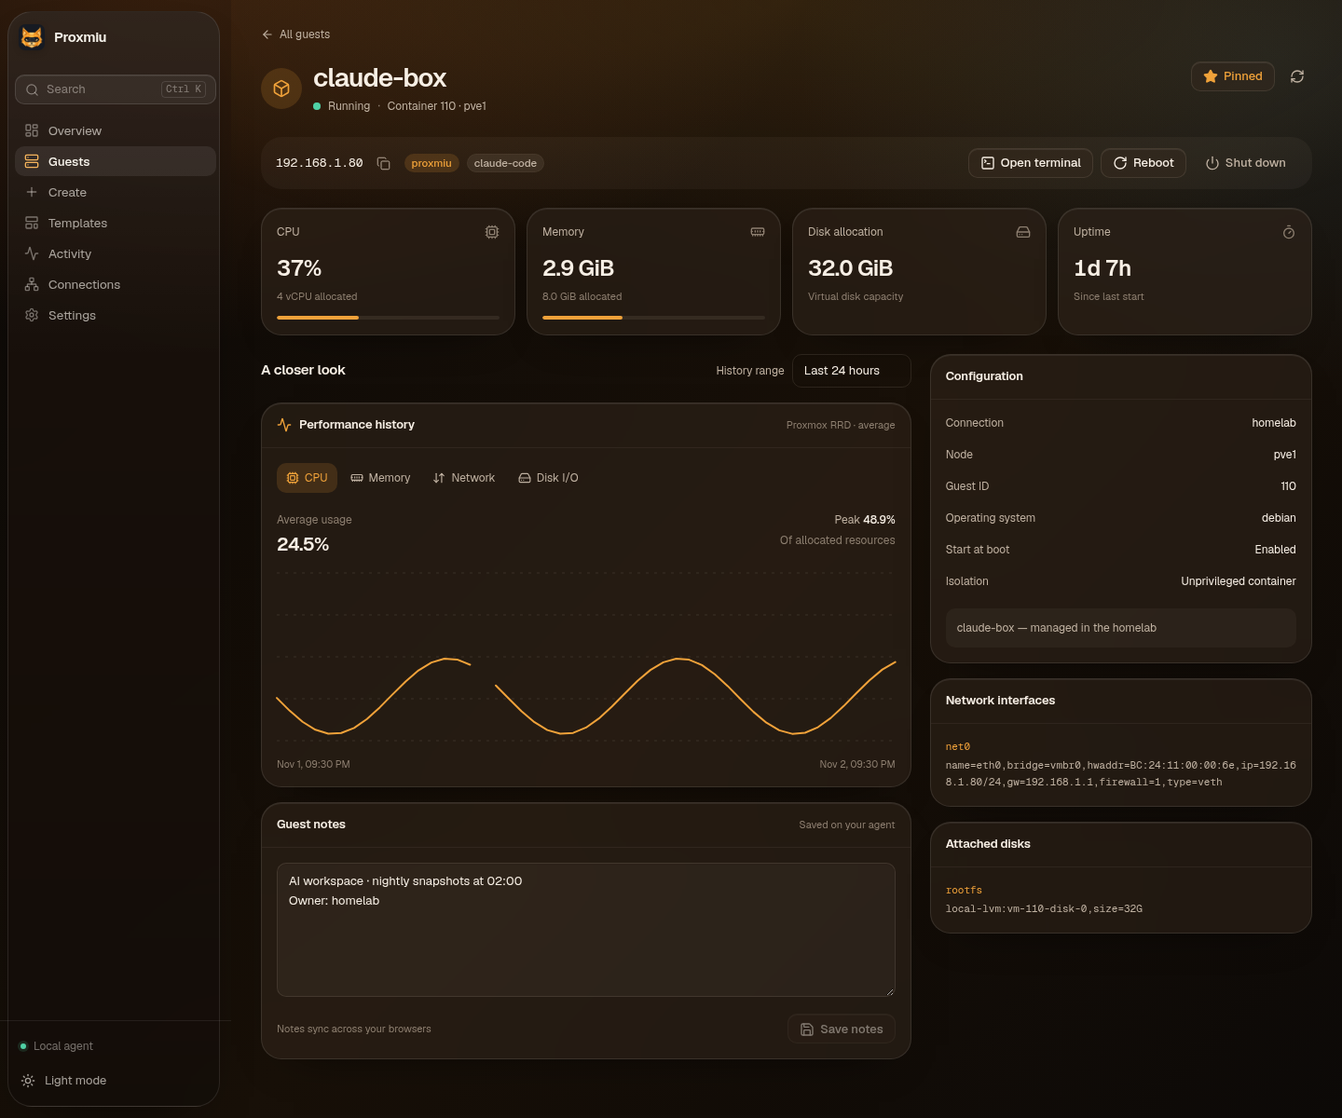
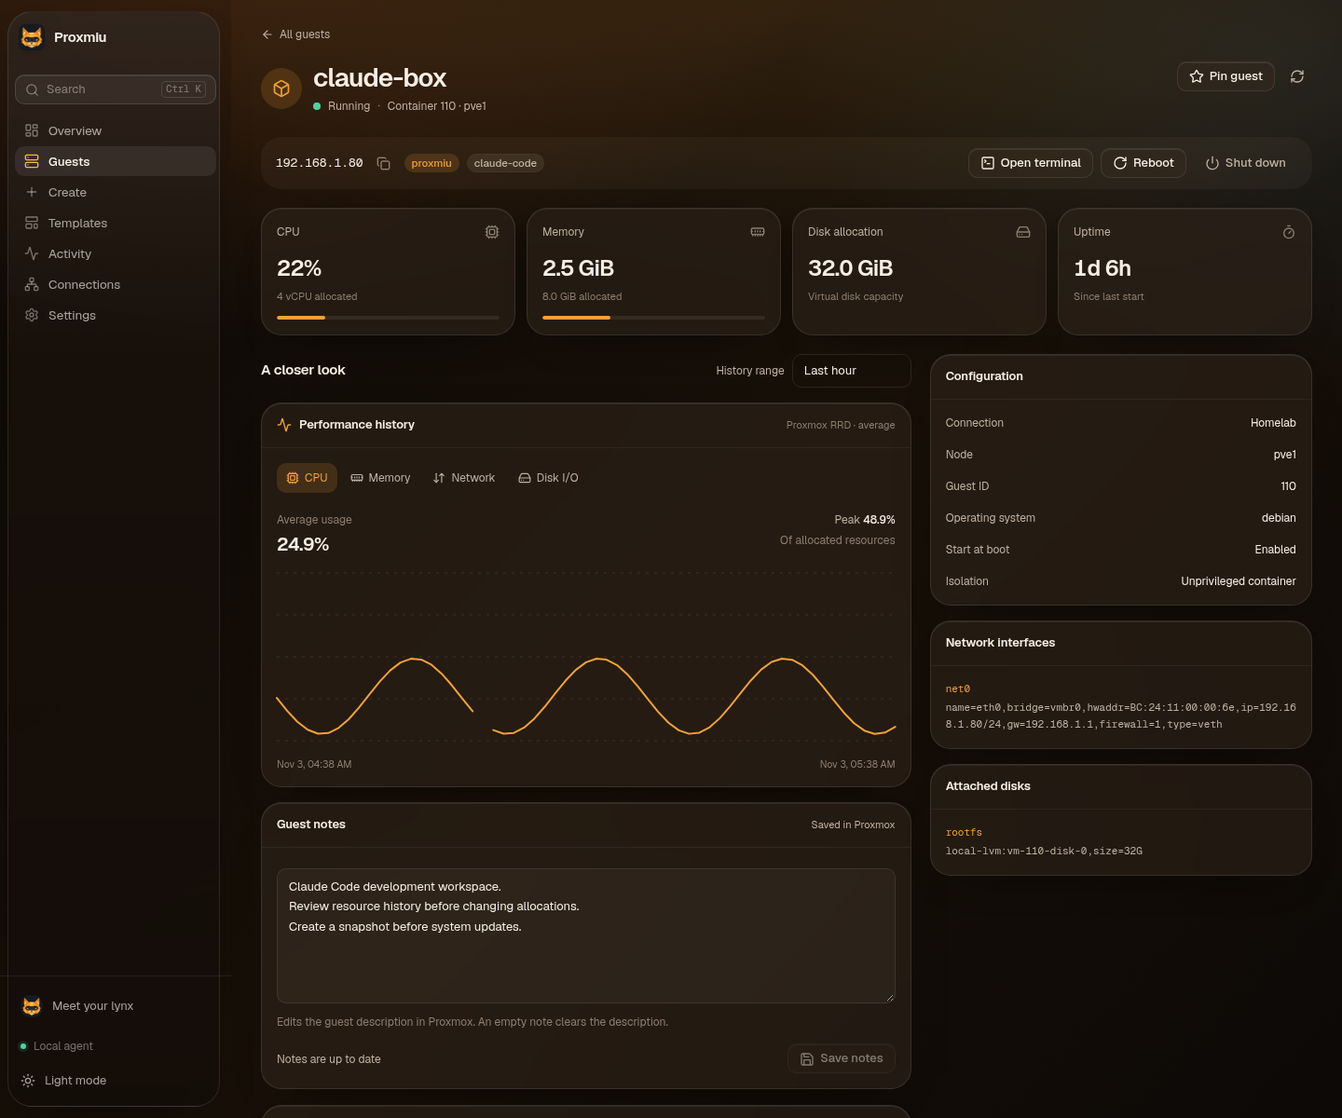
feat: showcase advanced workspaces and bring the lynx forward

diff --git a/index.html b/index.html
@@ -6,7 +6,7 @@
     <title>Proxmiu — manage Proxmox VE from the browser</title>
     <meta
       name="description"
-      content="A focused workspace for Proxmox VE: guest performance history, notes, pinned machines, saved views, safe bulk actions, browser SSH and one-click dev servers."
+      content="A friendlier Proxmox workspace: snapshots, backups, migration, shared notes, browser SSH and optional AI optimization advice you review and send."
     />
     <meta name="theme-color" content="#f6f0e7" />
     <link rel="canonical" href="https://proxmiu.com/" />
@@ -16,7 +16,7 @@
     <meta property="og:title" content="Proxmiu — manage Proxmox VE from the browser" />
     <meta
       property="og:description"
-      content="Guest history, notes, pins, saved views and safe bulk actions. Browser SSH and ready-to-use AI dev boxes, self-hosted on your LAN."
+      content="Snapshots, backups, migration and shared Proxmox notes. Browser SSH and optional optimization advice, with you in control."
     />
     <meta property="og:image" content="https://proxmiu.com/screenshots/overview.png?v=10" />
     <meta name="twitter:card" content="summary_large_image" />
@@ -48,11 +48,11 @@
 
     <main class="page">
       <section class="hero">
-        <div class="eyebrow"><span class="dot"></span> Proxmox VE, without the tab hunt</div>
-        <h1>Your homelab,<br /><span class="gradient">one click away.</span></h1>
+        <div class="hero-copy">
+        <h1>Your homelab,<br /><span>one click away.</span></h1>
         <p class="lede">
           A focused workspace for Proxmox VE. Understand every guest, keep your important machines close, and handle
-          everyday work in fewer steps. Browser SSH and ready-to-use Claude Code, Codex and OpenCode boxes included.
+          everyday work in fewer steps. Snapshots, backups, migration, browser SSH and ready-to-use dev boxes, together.
         </p>
         <div class="cta">
           <a class="button primary" href="#install">Install on Proxmox</a>
@@ -65,7 +65,14 @@
           <span>Docker</span>
           <span>Community Scripts</span>
         </div>
-        <p class="hero-note">Self-hosted · runs on your LAN · no cloud dependency</p>
+        <p class="hero-note">Self-hosted on your LAN. Optional AI advice when you ask.</p>
+        </div>
+        <aside class="companion-intro" aria-label="Your lynx companion">
+          <div class="companion-portrait" data-lynx-portrait aria-hidden="true"><img src="logo.png" alt="" width="160" height="160" /></div>
+          <p class="companion-hello">A little company<br />for your homelab.</p>
+          <p>Sharp ears. Soft paws. <br />You keep the controls.</p>
+          <button class="button" type="button" data-lynx-wake>Meet your lynx</button>
+        </aside>
       </section>
 
       <section class="hero-stage">
@@ -77,23 +84,35 @@
       <section class="section workspace-feature" aria-labelledby="workspace-title">
         <div class="workspace-story">
           <h2 id="workspace-title">Every guest,<br /> in detail.</h2>
-          <p>Resource history, configuration and your own notes, together in a workspace for each machine.</p>
+          <p>Resource history, configuration and shared notes, together in a workspace for each machine.</p>
           <ul class="workspace-benefits">
-            <li><strong>Keep the context.</strong><span>Pin the machines you reach for first. Notes and pins stay on your agent, ready from your other browsers too.</span></li>
+            <li><strong>Keep the context.</strong><span>Notes use the existing Proxmox description field, so edits appear in Proxmox too. Pins stay on your agent, ready from your other browsers.</span></li>
             <li><strong>Make the inventory yours.</strong><span>Combine status, type and node filters. Save useful views in your browser and export the visible inventory as CSV.</span></li>
             <li><strong>Work on a few at once.</strong><span>Review selected targets, send power requests, and see an outcome for every guest.</span></li>
           </ul>
           <a class="button" href="#screenshots">See it in action</a>
         </div>
         <figure class="workspace-image">
-          <a href="screenshots/guest-detail.png?v=10" target="_blank" rel="noopener" aria-label="Open the full guest workspace screenshot"><img src="screenshots/guest-detail.png?v=10" alt="Proxmiu guest workspace showing performance history, configuration and notes" loading="lazy" width="1440" height="1200" /></a>
-          <figcaption>Real Proxmox history. Your notes. A clearer picture.</figcaption>
+          <a href="screenshots/guest-detail.png?v=11" target="_blank" rel="noopener" aria-label="Open the full guest workspace screenshot"><img src="screenshots/guest-detail.png?v=11" alt="Proxmiu guest workspace showing performance history, configuration and notes" loading="lazy" width="1440" height="1200" /></a>
+          <figcaption>Proxmox history and configuration, with notes shared across both interfaces.</figcaption>
         </figure>
+      </section>
+
+      <section class="section operations-feature" aria-labelledby="operations-title">
+        <div class="section-head">
+          <h2 id="operations-title">Snapshots, backups,<br />and a change of node.</h2>
+          <p>Keep guest maintenance close to the machine. Each operation starts a real Proxmox task, with its progress and final result shown in the workspace.</p>
+        </div>
+        <dl class="operation-list">
+          <div><dt>Save a snapshot</dt><dd>Name a restore point and add a description. Rollback and snapshot deletion require typed confirmation.</dd></div>
+          <div><dt>Start a backup</dt><dd>Choose an available backup storage and follow the Proxmox task through to its result.</dd></div>
+          <div><dt>Move to another node</dt><dd>Choose an available destination in the cluster. Proxmox checks whether the guest can migrate.</dd></div>
+        </dl>
+        <p class="feature-note">Availability depends on your Proxmox permissions, guest configuration and storage. Existing installations may need a role update; Proxmiu never expands permissions automatically.</p>
       </section>
 
       <section id="features" class="section">
         <div class="section-head">
-          <div class="eyebrow">Features</div>
           <h2>Everything you do every day.<br />Nothing you don't.</h2>
           <p>
             Proxmiu is a focused front end, not a replacement for the Proxmox UI. It makes the common things fast and
@@ -146,11 +165,28 @@
         </div>
       </section>
 
+      <section id="advisor" class="section advisor-feature" aria-labelledby="advisor-title">
+        <div class="advisor-story">
+          <img class="advisor-lynx" src="logo.png" alt="The amber robotic lynx" width="64" height="64" loading="lazy" />
+          <h2 id="advisor-title">Advice, with you<br />in control.</h2>
+          <p>Want another look at resource allocation? Add your own OpenAI or Anthropic token for optional optimization advice. The token stays encrypted on your agent.</p>
+          <p>Proxmiu never applies infrastructure changes automatically. Read the advice, decide what fits your lab, and make the changes yourself.</p>
+        </div>
+        <div class="privacy-boundary">
+          <h3>You choose what leaves.</h3>
+          <ol>
+            <li><strong>Preview the metrics.</strong><span>Review the numeric resource preview in Settings before sending anything.</span></li>
+            <li><strong>Send it explicitly.</strong><span>Only your chosen provider receives the reviewed preview when you request advice.</span></li>
+            <li><strong>Keep the context private.</strong><span>The preview includes no names, IP addresses, notes or secrets.</span></li>
+          </ol>
+          <p>AI advice is optional. Your everyday Proxmox workspace works without an AI token.</p>
+        </div>
+      </section>
+
       <section id="screenshots" class="section">
         <div class="section-head">
-          <div class="eyebrow">Screenshots</div>
           <h2>Made to be used.</h2>
-          <p>Warm glass surfaces, light and dark themes, and dense information where it matters.</p>
+          <p>Warm glass surfaces, light and dark themes, and dense information where it matters. Screenshots use synthetic data from the bundled Proxmox mock.</p>
         </div>
         <div class="shots">
           <figure class="shot-wide">
@@ -166,8 +202,12 @@
             <figcaption><strong>Create.</strong> A Claude Code server from a template, with every setting adjustable.</figcaption>
           </figure>
           <figure>
-            <img src="screenshots/settings.png?v=10" alt="Proxmiu settings with the SSH key and self-update" loading="lazy" />
-            <figcaption><strong>Settings and updates.</strong> Your key, access, and opt-in agent updates in one place.</figcaption>
+            <img src="screenshots/settings.png?v=11" alt="Proxmiu Settings with optional AI token configuration and privacy controls" loading="lazy" />
+            <figcaption><strong>Optional AI advice.</strong> Add your provider token, preview anonymous metrics and choose when to request advice.</figcaption>
+          </figure>
+          <figure class="shot-wide">
+            <img src="screenshots/guest-operations.png?v=11" alt="Guest snapshots, backup storage and migration controls with a completed mock Proxmox task" loading="lazy" />
+            <figcaption><strong>Guest operations.</strong> Snapshots, backups and migration, with clear task results. HA-managed guests stay in Proxmox HA controls.</figcaption>
           </figure>
           <figure class="shot-wide">
             <img src="screenshots/command-palette.png?v=10" alt="Proxmiu command palette" loading="lazy" />
@@ -190,7 +230,6 @@
           <img src="screenshots/mobile-overview.png?v=10" alt="Proxmiu on an iPhone: overview" loading="lazy" />
           <img src="screenshots/mobile-guests.png?v=10" alt="Proxmiu on an iPhone: guests" loading="lazy" />
           <div>
-            <div class="eyebrow">On the go</div>
             <h3>The homelab in your pocket.</h3>
             <p>Find hosts, check a container, reboot a VM or open a terminal from a phone. The layout is designed for thumbs, not just a shrunken desktop.</p>
           </div>
@@ -199,7 +238,6 @@
 
       <section id="how" class="section">
         <div class="section-head">
-          <div class="eyebrow">How it works</div>
           <h2>One small agent. Your network stays yours.</h2>
           <p>
             Proxmox sends no CORS headers, and cloud hosts cannot reach a private LAN. So the UI talks to a small agent
@@ -225,8 +263,7 @@
 
       <section id="install" class="section install">
         <div class="section-head">
-          <div class="eyebrow">Install</div>
-          <h2>Three minutes on a Proxmox host.</h2>
+          <h2>Make yourself at home.</h2>
           <p>Run this in the Proxmox shell. It creates an unprivileged container, installs the agent and adds the host to it.</p>
         </div>
         <div class="code-block">
@@ -253,7 +290,6 @@
             <svg viewBox="0 0 24 24" fill="none" stroke="currentColor" stroke-width="1.7" stroke-linecap="round" stroke-linejoin="round" aria-hidden="true"><path d="M12 22s8-4 8-10V5l-8-3-8 3v7c0 6 8 10 8 10z" /></svg>
           </span>
           <div>
-            <div class="eyebrow">Security first</div>
             <h2>The UI never touches Proxmox directly.</h2>
             <p>
               Credentials are encrypted at rest, sessions are signed bearer tokens, and the agent refuses to listen

diff --git a/lynx-easter-egg.js b/lynx-easter-egg.js
@@ -2,6 +2,32 @@
   let clicks = 0
   let lastClick = 0
 
+  const illustration = `<svg viewBox="0 0 160 150" fill="none" aria-hidden="true">
+          <ellipse cx="80" cy="136" rx="40" ry="5" fill="#171b23" opacity=".18"/>
+          <g class="lynx-tail"><path d="M105 113c38 4 48-29 31-37" stroke="#e38a24" stroke-width="13" stroke-linecap="round"/><path d="M140 82q0-5-4-6" stroke="#252a34" stroke-width="13" stroke-linecap="round"/></g>
+          <ellipse cx="80" cy="113" rx="33" ry="22" fill="#e38a24"/>
+          <path d="M67 101h26l-5 30H72l-5-30Z" fill="#ffd184"/>
+          <rect x="52" y="117" width="17" height="19" rx="8" fill="#f0a23a"/>
+          <rect x="91" y="117" width="17" height="19" rx="8" fill="#f0a23a"/>
+          <path d="M54 133h13m26 0h13" stroke="#252a34" stroke-width="5" stroke-linecap="round"/>
+          <g class="lynx-head"><g transform="translate(28 7) scale(1.65)">
+            <path d="m12 8 14 14h12L52 8l3 24 5 9-5-1 2 10-6-3-7 9-5-1-7 4-7-4-5 1-7-9-6 3 2-10-5 1 5-9 3-24Z" fill="#f0a23a"/>
+            <path d="m14 15 10 12-11 5 1-17Zm36 0L40 27l11 5-1-17Z" fill="#ffd184"/>
+            <path d="m12 8 14 14 6 11-12-8-8-17Zm40 0L38 22l-6 11 12-8 8-17Z" fill="#ffb640"/>
+            <path d="m19 30 10 3h6l10-3 8 9-7 7-8 2-6-3-6 3-8-2-7-7 8-9Z" fill="#171b23"/>
+            <g class="lynx-eyes"><path d="m17 36 7 2 3 4c-6 1-8-1-10-6Zm30 0-7 2-3 4c6 1 8-1 10-6Z" fill="#ffe1a3"/></g>
+            <rect x="29" y="33" width="6" height="3" rx="1" fill="#54504a"/><rect x="29" y="38" width="6" height="3" rx="1" fill="#54504a"/>
+            <circle class="lynx-led" cx="34" cy="34.5" r="1.2" fill="#39d8c2"/>
+            <path d="m25 48 7 3 7-3-2 7-5 3-5-3-2-7Z" fill="#ffd184"/><path d="m28 49 4 4 4-4h-8Z" fill="#171b23"/>
+          </g></g>
+        </svg>`
+
+  document.querySelectorAll('[data-lynx-portrait]').forEach(portrait => { portrait.innerHTML = illustration })
+  document.querySelectorAll('[data-lynx-wake]').forEach(button => {
+    button.setAttribute('aria-controls', 'proxmiu-lynx')
+    button.setAttribute('aria-expanded', 'false')
+  })
+
   const css = `
     #proxmiu-lynx { position:fixed; right:max(20px,env(safe-area-inset-right)); bottom:24px; z-index:45; width:184px; color:#f5f1e9; font:13px/1.45 system-ui,sans-serif; animation:lynx-arrive .45s cubic-bezier(.16,1,.3,1) both; }
     #proxmiu-lynx * { box-sizing:border-box; }
@@ -28,10 +54,11 @@
     @media(prefers-reduced-motion:reduce) { #proxmiu-lynx, #proxmiu-lynx * { animation:none !important; transition:none !important; } }
   `
 
-  function wake(trigger) {
+  function wake(trigger, moveFocus = false) {
     const existing = document.getElementById('proxmiu-lynx')
     if (existing) {
       existing.querySelector('.lynx-pet').click()
+      if (moveFocus) existing.querySelector('.lynx-pet').focus({ preventScroll: true })
       return
     }
     if (!document.getElementById('proxmiu-lynx-style')) {
@@ -47,32 +74,17 @@
       <p class="lynx-message" role="status">Oh, hi. I live here.</p>
       <button type="button" class="lynx-close" aria-label="Dismiss lynx"><svg viewBox="0 0 16 16" fill="none" stroke="currentColor" stroke-width="1.7" aria-hidden="true"><path d="m4 4 8 8M12 4l-8 8"/></svg></button>
       <button type="button" class="lynx-pet" aria-label="Pet the lynx">
-        <svg viewBox="0 0 160 150" fill="none" aria-hidden="true">
-          <ellipse cx="80" cy="136" rx="40" ry="5" fill="#171b23" opacity=".18"/>
-          <g class="lynx-tail"><path d="M105 113c38 4 48-29 31-37" stroke="#e38a24" stroke-width="13" stroke-linecap="round"/><path d="M140 82q0-5-4-6" stroke="#252a34" stroke-width="13" stroke-linecap="round"/></g>
-          <ellipse cx="80" cy="113" rx="33" ry="22" fill="#e38a24"/>
-          <path d="M67 101h26l-5 30H72l-5-30Z" fill="#ffd184"/>
-          <rect x="52" y="117" width="17" height="19" rx="8" fill="#f0a23a"/>
-          <rect x="91" y="117" width="17" height="19" rx="8" fill="#f0a23a"/>
-          <path d="M54 133h13m26 0h13" stroke="#252a34" stroke-width="5" stroke-linecap="round"/>
-          <g class="lynx-head"><g transform="translate(28 7) scale(1.65)">
-            <path d="m12 8 14 14h12L52 8l3 24 5 9-5-1 2 10-6-3-7 9-5-1-7 4-7-4-5 1-7-9-6 3 2-10-5 1 5-9 3-24Z" fill="#f0a23a"/>
-            <path d="m14 15 10 12-11 5 1-17Zm36 0L40 27l11 5-1-17Z" fill="#ffd184"/>
-            <path d="m12 8 14 14 6 11-12-8-8-17Zm40 0L38 22l-6 11 12-8 8-17Z" fill="#ffb640"/>
-            <path d="m19 30 10 3h6l10-3 8 9-7 7-8 2-6-3-6 3-8-2-7-7 8-9Z" fill="#171b23"/>
-            <g class="lynx-eyes"><path d="m17 36 7 2 3 4c-6 1-8-1-10-6Zm30 0-7 2-3 4c6 1 8-1 10-6Z" fill="#ffe1a3"/></g>
-            <rect x="29" y="33" width="6" height="3" rx="1" fill="#54504a"/><rect x="29" y="38" width="6" height="3" rx="1" fill="#54504a"/>
-            <circle class="lynx-led" cx="34" cy="34.5" r="1.2" fill="#39d8c2"/>
-            <path d="m25 48 7 3 7-3-2 7-5 3-5-3-2-7Z" fill="#ffd184"/><path d="m28 49 4 4 4-4h-8Z" fill="#171b23"/>
-          </g></g>
-        </svg>
+        ${illustration}
       </button>`
     document.body.append(panel)
+    document.querySelectorAll('[data-lynx-wake]').forEach(button => button.setAttribute('aria-expanded', 'true'))
+    if (moveFocus) panel.querySelector('.lynx-pet').focus({ preventScroll: true })
     let purrTimer
     const dismiss = () => {
       const restoreFocus = panel.contains(document.activeElement)
       clearTimeout(purrTimer)
       panel.remove()
+      document.querySelectorAll('[data-lynx-wake]').forEach(button => button.setAttribute('aria-expanded', 'false'))
       document.removeEventListener('keydown', onKey)
       if (restoreFocus && trigger.isConnected) trigger.focus({ preventScroll: true })
     }
@@ -89,6 +101,12 @@
 
   document.addEventListener('click', (event) => {
     if (!(event.target instanceof Element) || event.metaKey || event.ctrlKey || event.altKey || event.shiftKey || event.button !== 0) return
+    const companion = event.target.closest('[data-lynx-wake]')
+    if (companion) {
+      clicks = 0
+      wake(companion, true)
+      return
+    }
     const trigger = event.target.closest('[data-lynx-trigger]')
     if (!trigger) return
     if (trigger instanceof HTMLAnchorElement) {

diff --git a/styles.css b/styles.css
@@ -51,6 +51,15 @@ a {
   text-decoration: none;
 }
 
+:is(a, button):focus-visible {
+  outline: 2px solid var(--brand-strong);
+  outline-offset: 5px;
+}
+
+section[id] {
+  scroll-margin-top: 96px;
+}
+
 ::selection {
   background: rgba(226, 138, 47, 0.22);
 }
@@ -163,6 +172,8 @@ a {
 }
 
 .button {
+  font-family: inherit;
+  cursor: pointer;
   display: inline-flex;
   align-items: center;
   justify-content: center;
@@ -233,9 +244,42 @@ a {
 }
 
 .hero {
-  text-align: center;
-  padding: clamp(64px, 10vw, 118px) 0 40px;
+  display: grid;
+  grid-template-columns: minmax(0, 1.7fr) minmax(250px, .7fr);
+  align-items: center;
+  gap: 48px;
+  text-align: left;
+  padding: clamp(56px, 7vw, 88px) 0 28px;
 }
+
+.hero .cta,
+.hero .chips { justify-content: flex-start; }
+.hero .lede { margin-left: 0; max-width: 58ch; }
+.hero h1 { margin: 0 0 24px; font-size: clamp(48px, 6.5vw, 78px); letter-spacing: -.04em; }
+.hero h1 span { color: var(--brand-strong); }
+.companion-intro { text-align: center; padding: 24px 12px; }
+.companion-portrait { width: 200px; height: 188px; margin: 0 auto 6px; }
+.companion-portrait > svg { display: block; width: 100%; height: 100%; filter: drop-shadow(0 14px 12px #55330d16); }
+.companion-portrait > img { margin: auto; border-radius: 24px; }
+.companion-hello { margin: 0 0 10px; font-size: 24px; font-weight: 650; letter-spacing: -.025em; line-height: 1.2; }
+.companion-intro > p:not(.companion-hello) { margin: 0 0 20px; color: var(--muted); font-size: 14px; }
+.operations-feature { border-top: 1px solid var(--border); }
+.operation-list { display: grid; grid-template-columns: repeat(3, minmax(0, 1fr)); gap: 32px; margin: 32px 0 24px; }
+.operation-list > div { border-top: 1px solid var(--border-strong); padding-top: 18px; }
+.operation-list dt { font-size: 17px; font-weight: 650; letter-spacing: -.02em; }
+.operation-list dd { margin: 8px 0 0; font-size: 14px; color: var(--muted); }
+.feature-note { margin: 0; color: var(--muted); max-width: 90ch; font-size: 12.5px; }
+.advisor-feature { display: grid; grid-template-columns: 1fr 1fr; gap: clamp(32px, 7vw, 88px); align-items: center; }
+.advisor-lynx { border-radius: 16px; margin-bottom: 22px; }
+.advisor-story h2 { font-size: clamp(32px, 4vw, 48px); font-weight: 650; line-height: 1.1; letter-spacing: -.035em; margin: 0 0 22px; }
+.advisor-story p { font-size: 14px; color: var(--muted); margin: 14px 0 0; max-width: 55ch; }
+.privacy-boundary { padding: 32px; border-radius: var(--radius); background: #1b2030; color: #f5f1e9; box-shadow: 0 24px 60px -32px #1b203066; }
+.privacy-boundary h3 { margin: 0 0 26px; font-size: 22px; font-weight: 650; letter-spacing: -.025em; }
+.privacy-boundary ol { margin: 0; padding-left: 22px; display: grid; gap: 22px; }
+.privacy-boundary li { padding-left: 8px; color: #f5c77f; font-size: 14px; }
+.privacy-boundary strong { display: block; color: #f5f1e9; margin-bottom: 4px; }
+.privacy-boundary span { display: block; color: #c3bec8; font-size: 13px; line-height: 1.65; }
+.privacy-boundary > p { margin: 26px 0 0; padding-top: 20px; border-top: 1px solid #ffffff1f; color: #c3bec8; font-size: 12px; }
 
 .eyebrow {
   display: inline-flex;
@@ -319,7 +363,7 @@ h1 {
 
 .hero-note {
   margin-top: 22px;
-  color: var(--faint);
+  color: var(--muted);
   font-size: 12px;
   letter-spacing: 0.02em;
 }
@@ -838,8 +882,22 @@ h1 {
   }
 
   .hero {
+    grid-template-columns: 1fr;
+    gap: 12px;
     padding-top: 54px;
   }
+
+  .hero h1 { font-size: clamp(46px, 9vw, 66px); }
+  .companion-intro { display: grid; grid-template-columns: 112px 1fr; column-gap: 14px; padding: 20px 0 0; text-align: left; align-items: center; }
+  .companion-portrait { grid-row: span 3; width: 112px; height: 132px; margin: 0; }
+  .companion-hello { font-size: 20px; margin-bottom: 6px; }
+  .companion-hello br { display: none; }
+  .companion-intro > p:not(.companion-hello) { font-size: 12px; margin-bottom: 12px; }
+  .companion-intro > p:not(.companion-hello) br { display: none; }
+  .companion-intro .button { justify-self: start; height: 40px; }
+  .operation-list { grid-template-columns: 1fr; gap: 22px; }
+  .advisor-feature { grid-template-columns: 1fr; }
+  .privacy-boundary { padding: 26px; }
 
   .hero-stage {
     padding: 24px 0 34px;

diff --git a/README.md b/README.md
@@ -27,14 +27,18 @@ python3 -m http.server 8080
 
 - `index.html`, `styles.css`, `app.js` — the page.
 - `screenshots/` — product screenshots pulled from the main repository.
-- Guest workspaces include Proxmox history and agent-persisted notes/pins; saved inventory views stay in each browser. Bulk requests have reviewed targets and individual outcomes.
+- Guest workspaces include Proxmox history, shared notes in the existing Proxmox description field, and agent-persisted pins. Saved inventory views stay in each browser. Bulk requests have reviewed targets and individual outcomes.
+- Snapshots, backups and migration start real Proxmox tasks and display their final results. Availability depends on the guest, storage and API role; existing agents may need their Proxmox role updated.
+- Optional OpenAI/Anthropic optimization advice uses an encrypted token on the agent. Users preview numeric resource data and explicitly request a review. The preview excludes names, IP addresses, notes and secrets, and advice never triggers automatic infrastructure changes.
 - `logo.png`, `apple-touch-icon.png` — amber robotic lynx branding.
 - `logo.svg`, `favicon.svg` — simplified vector companions for small sizes.
 
 The [MIT license](LICENSE) from Proxmiu applies.
 
-## A small Easter egg
+## Your lynx companion
 
-Click the Proxmiu logo five times in quick succession to wake the lynx. Click the mascot to pet it; dismiss it with Escape or its close button. It respects reduced-motion preferences.
+The hero features the same amber robotic lynx as the app. Choose **Meet your lynx** to wake the companion with a click or the keyboard. Five quick clicks on the Proxmiu logo still work as an Easter egg. Click the mascot to pet it; dismiss it with Escape or its close button. Focus returns to the control that opened it, and it respects reduced-motion preferences. The companion is decorative and does not monitor or operate infrastructure.
 
-With Node.js and Playwright available, run `node tests/lynx.e2e.cjs` to check the interaction. Set `CHROMIUM_PATH` to use a system Chromium installation.
+With Node.js and Playwright available, run `node tests/lynx.e2e.cjs` to check the interaction and `node tests/presentation.e2e.cjs` for actual desktop/390px page checks, loaded images and feature/privacy copy. Set `CHROMIUM_PATH` to use a system Chromium installation. Presentation captures are written to `/tmp/proxmiu-site-*.png`.
+
+Current guest workspace, operations and Settings screenshots were captured through the real local agent and bundled synthetic Proxmox mock (`scripts/capture-advanced.cjs` in the app repository). They do not show a real host; AI was unconfigured and no provider was contacted.
